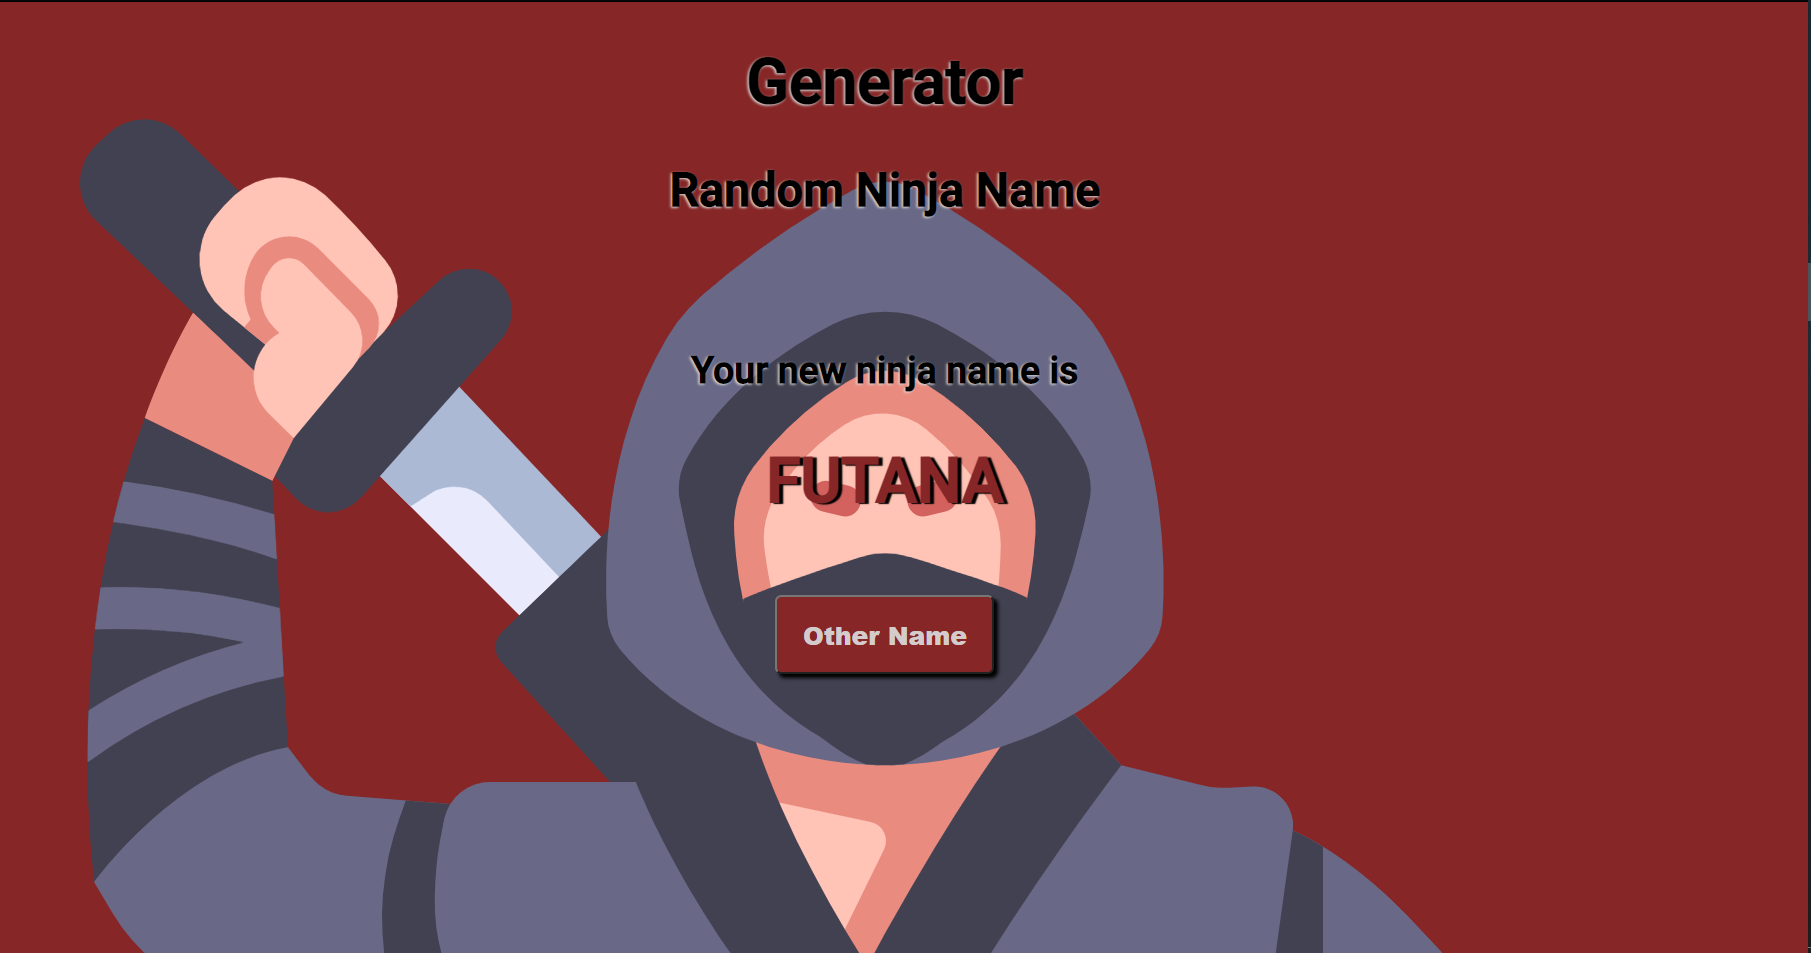
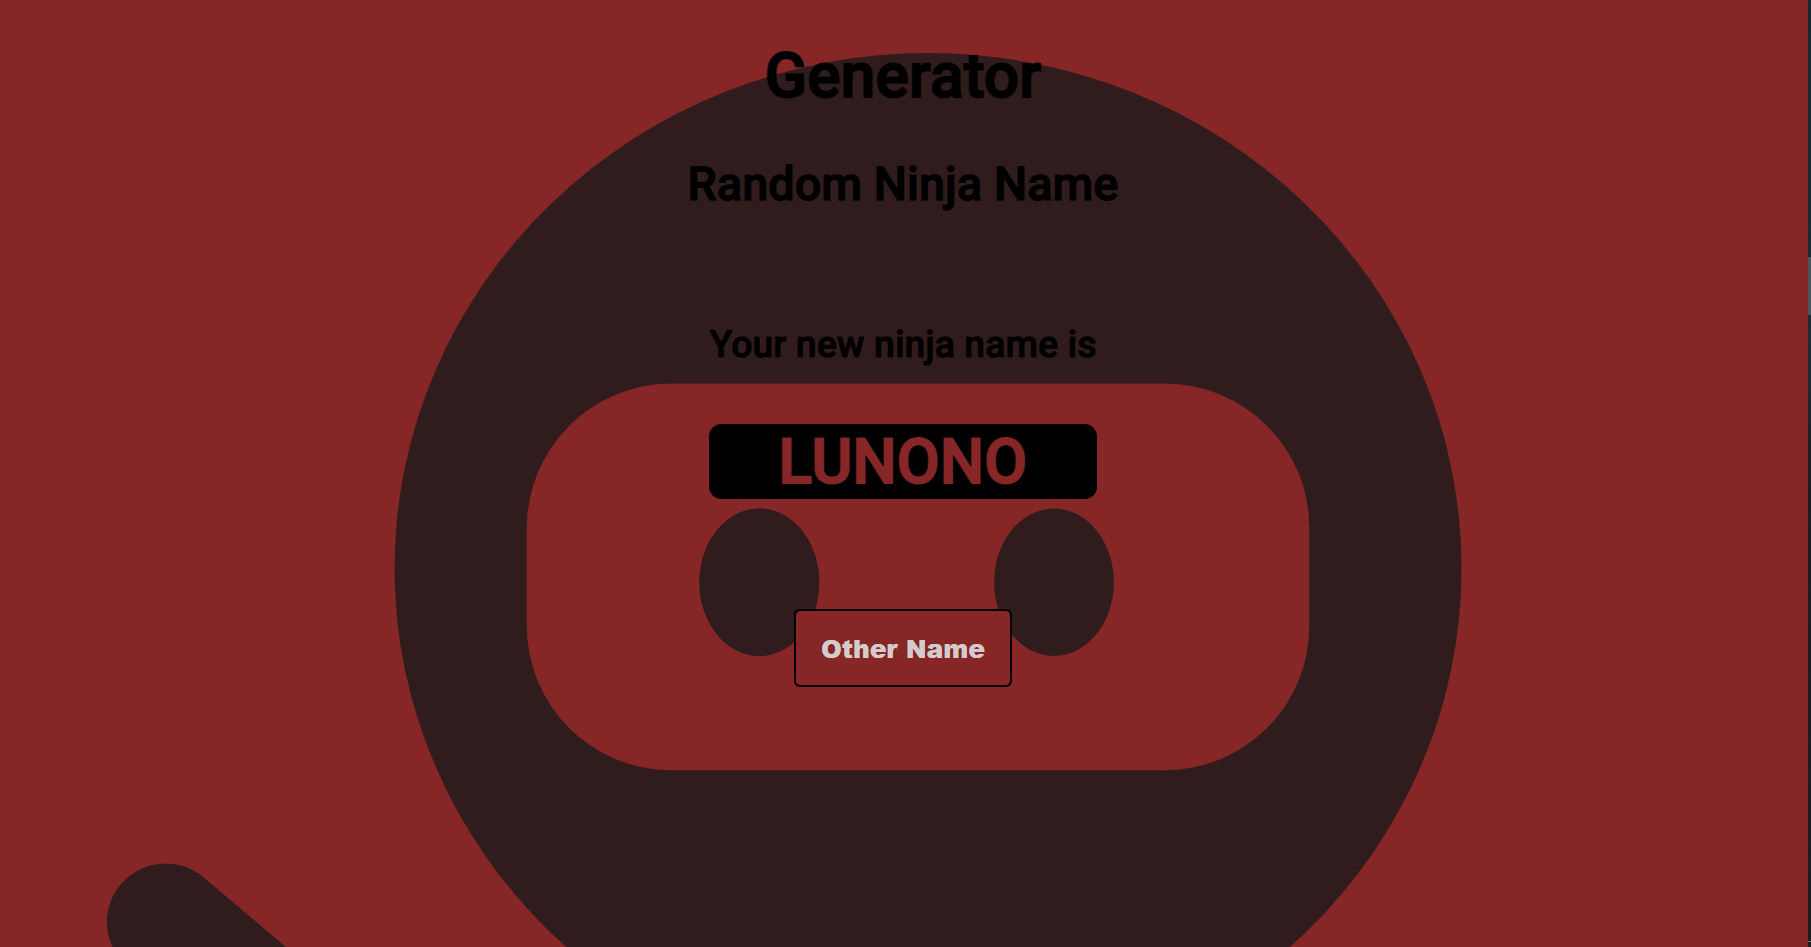
Remake

diff --git a/public/styles/styles.css b/public/styles/styles.css
@@ -1,23 +1,26 @@
 @import url("https://fonts.googleapis.com/css2?family=Roboto:wght@300;500&display=swap");
 body {
   font-family: "Roboto", sans-serif, Verdana;
-  text-shadow: -1px 1px 2px #dadada;
   padding: 0;
   margin: 0;
   -webkit-box-sizing: border-box;
           box-sizing: border-box;
-  width: 98vw;
-  height: 95.5vh;
+  z-index: -10;
 }
 body div.background {
-  background-image: url("../../public/assets/ninja.svg");
+  background-image: url("../../public/assets/ninja_2.svg");
   background-repeat: no-repeat;
   background-size: cover;
-  height: 100%;
+  height: 95.5vh;
+  width: 95.5vw;
+  z-index: -5;
+  position: absolute;
+  opacity: 0.8;
 }
 body header {
   text-align: center;
   font-size: 25px;
+  z-index: 10;
 }
 body main {
   display: -webkit-box;
@@ -36,67 +39,81 @@ body main {
       -ms-flex-direction: column;
           flex-direction: column;
   font-size: 20px;
+  z-index: 11;
 }
 body main div button {
   padding: 15px 20px;
-  margin-top: 20px;
+  margin-top: 15%;
   border-radius: 5px;
   font-size: 20px;
-  -webkit-box-shadow: 3px 3px 3px black;
-          box-shadow: 3px 3px 3px black;
+  border: 2px solid black;
   color: #d4cccc;
   font-weight: 900;
+  cursor: pointer;
+}
+body main div button:hover {
+  -webkit-transform: scale(1.1);
+          transform: scale(1.1);
+  -webkit-transition: 1.5s;
+  transition: 1.5s;
 }
 body main div h2#ninja-name {
+  margin-top: 15%;
   text-transform: uppercase;
   font-size: 50px;
   text-shadow: 3px 1px 1px black;
+  background-color: black;
+  border-radius: 10px;
+}
+
+.bg-color-1, .txt-color-1 {
+  -webkit-transition: 1.5s;
+  transition: 1.5s;
+}
+
+.bg-color-2, .txt-color-2 {
+  -webkit-transition: 1.5s;
+  transition: 1.5s;
+}
+
+.bg-color-3, .txt-color-3 {
+  -webkit-transition: 1.5s;
+  transition: 1.5s;
+}
+
+.bg-color-4, .txt-color-4 {
+  -webkit-transition: 1.5s;
+  transition: 1.5s;
 }
 
 .bg-color-1 {
   background-color: #862626;
-  -webkit-transition: 1.5s;
-  transition: 1.5s;
-}
-
-.bg-color-2 {
-  background-color: #277e85;
-  -webkit-transition: 1.5s;
-  transition: 1.5s;
-}
-
-.bg-color-3 {
-  background-color: #273085;
-  -webkit-transition: 1.5s;
-  transition: 1.5s;
-}
-
-.bg-color-4 {
-  background-color: #27852f;
-  -webkit-transition: 1.5s;
-  transition: 1.5s;
 }
 
 .txt-color-1 {
   color: #862626;
-  -webkit-transition: 1.5s;
-  transition: 1.5s;
+}
+
+.bg-color-2 {
+  background-color: #277e85;
 }
 
 .txt-color-2 {
   color: #277e85;
-  -webkit-transition: 1.5s;
-  transition: 1.5s;
+}
+
+.bg-color-3 {
+  background-color: #273085;
 }
 
 .txt-color-3 {
   color: #273085;
-  -webkit-transition: 1.5s;
-  transition: 1.5s;
+}
+
+.bg-color-4 {
+  background-color: #27852f;
 }
 
 .txt-color-4 {
   color: #27852f;
-  -webkit-transition: 1.5s;
-  transition: 1.5s;
 }

diff --git a/dev/sass/styles.scss b/dev/sass/styles.scss
@@ -2,23 +2,26 @@
 
 body {
     font-family: 'Roboto', sans-serif, Verdana;
-    text-shadow: -1px 1px 2px rgb(218, 218, 218);
     padding: 0;
     margin: 0;
     box-sizing: border-box;
-    width: 98vw;
-    height: 95.5vh;
+    z-index: -10;
 
     div.background {
-        background-image: url('../../public/assets/ninja.svg');
+        background-image: url('../../public/assets/ninja_2.svg');
         background-repeat: no-repeat;
         background-size: cover;
-        height: 100%;
+        height: 95.5vh;
+        width: 95.5vw;
+        z-index: -5;
+        position: absolute;
+        opacity: 0.8;
     }
 
     header {
         text-align: center;
         font-size: 25px;
+        z-index: 10;
     }
     
     main {
@@ -29,57 +32,54 @@ body {
         text-align: center;
         flex-direction: column;
         font-size: 20px;
+        z-index: 11;
 
         div {
             button {
                 padding: 15px 20px;
-                margin-top: 20px;
+                margin-top: 15%;
                 border-radius: 5px;
                 font-size: 20px;
-                box-shadow: 3px 3px 3px black;
+                border: 2px solid black;
                 color: rgb(212, 204, 204);
                 font-weight: 900;
+                cursor: pointer;
             }
-
+            button:hover {
+                transform: scale(1.1);
+                transition: 1.5s;
+            }
             h2#ninja-name {
+                margin-top: 15%;
                 text-transform: uppercase;
                 font-size: 50px;
                 text-shadow: 3px 1px 1px rgb(0, 0, 0);
+                background-color: black;
+                border-radius: 10px;
             }
         }
     }
 }
 
-.bg-color-1 {
-    background-color: rgb(134, 38, 38);
-    transition: 1.5s;
-}
-.bg-color-2 {
-    background-color: rgb(39, 126, 133);
-    transition: 1.5s;
-}
-.bg-color-3 {
-    background-color: rgb(39, 48, 133);
-    transition: 1.5s;
-}
-.bg-color-4 {
-    background-color: rgb(39, 133, 47);
-    transition: 1.5s;
+$colors: (
+    1: rgb(134, 38, 38),
+    2: rgb(39, 126, 133),
+    3: rgb(39, 48, 133),
+    4: rgb(39, 133, 47)
+);
+
+@for $i from 1 through 4 {
+    .bg-color-#{$i}, .txt-color-#{$i} {
+        transition: 1.5s;
+    }
 }
 
-.txt-color-1 {
-    color: rgb(134, 38, 38);
-    transition: 1.5s;
-}
-.txt-color-2 {
-    color: rgb(39, 126, 133);
-    transition: 1.5s;
-}
-.txt-color-3 {
-    color: rgb(39, 48, 133);
-    transition: 1.5s;
-}
-.txt-color-4 {
-    color: rgb(39, 133, 47);
-    transition: 1.5s;
+@each $key, $color in $colors {
+    .bg-color-#{$key} {
+        background-color: $color;
+    }
+
+    .txt-color-#{$key} {
+        color: $color;
+    }
 }

diff --git a/index.html b/index.html
@@ -13,18 +13,19 @@
 </head>
 <body class="bg-color-1" id="body">
     <div class="background">
-        <header>
-            <h1>Generator</h1>
-            <h2>Random Ninja Name</h2>
-        </header>
-        <main>
-            <div>
-                <h2>Your new ninja name is</h2>
-                <h2 class="txt-color-1" id="ninja-name">${NINJA_NAME}</h2>
-                <button class="bg-color-1" id="new-ninja-name">Other Name</button>
-            </div>
-        </main>
+
     </div>
+    <header>
+        <h1>Generator</h1>
+        <h2>Random Ninja Name</h2>
+    </header>
+    <main>
+        <div>
+            <h2>Your new ninja name is</h2>
+            <h2 class="txt-color-1" id="ninja-name">${NINJA_NAME}</h2>
+            <button class="bg-color-1" id="new-ninja-name">Other Name</button>
+        </div>
+    </main>
 
     <script src="./dev/scripts/script.js"></script>
 </body>

diff --git a/dev/scripts/script.js b/dev/scripts/script.js
@@ -61,19 +61,17 @@ generate.addEventListener('click', () => {
 let cls_bg = 'bg-color-1';
 let cls_txt = 'txt-color-1';
 
-function change(value) {
+function change() {
     let reg = /\d/;
     let temp = 0;
 
     for (let el of cls_bg) {
         if (reg.test(el)) {
             let tmp = parseInt(el);
-            if (value === 1) {
-                if (tmp < 4) {
-                    temp = tmp + 1;
-                } else {
-                    temp = 1;
-                }
+            if (tmp < 4) {
+                temp = tmp + 1;
+            } else {
+                temp = 1;
             }
         }
     }
@@ -83,7 +81,7 @@ function change(value) {
 };
 
 generate.addEventListener('click', () => {
-    change(1);
+    change();
     body.setAttribute('class', cls_bg);
     generate.setAttribute('class', cls_bg);
     display.setAttribute('class', cls_txt);
